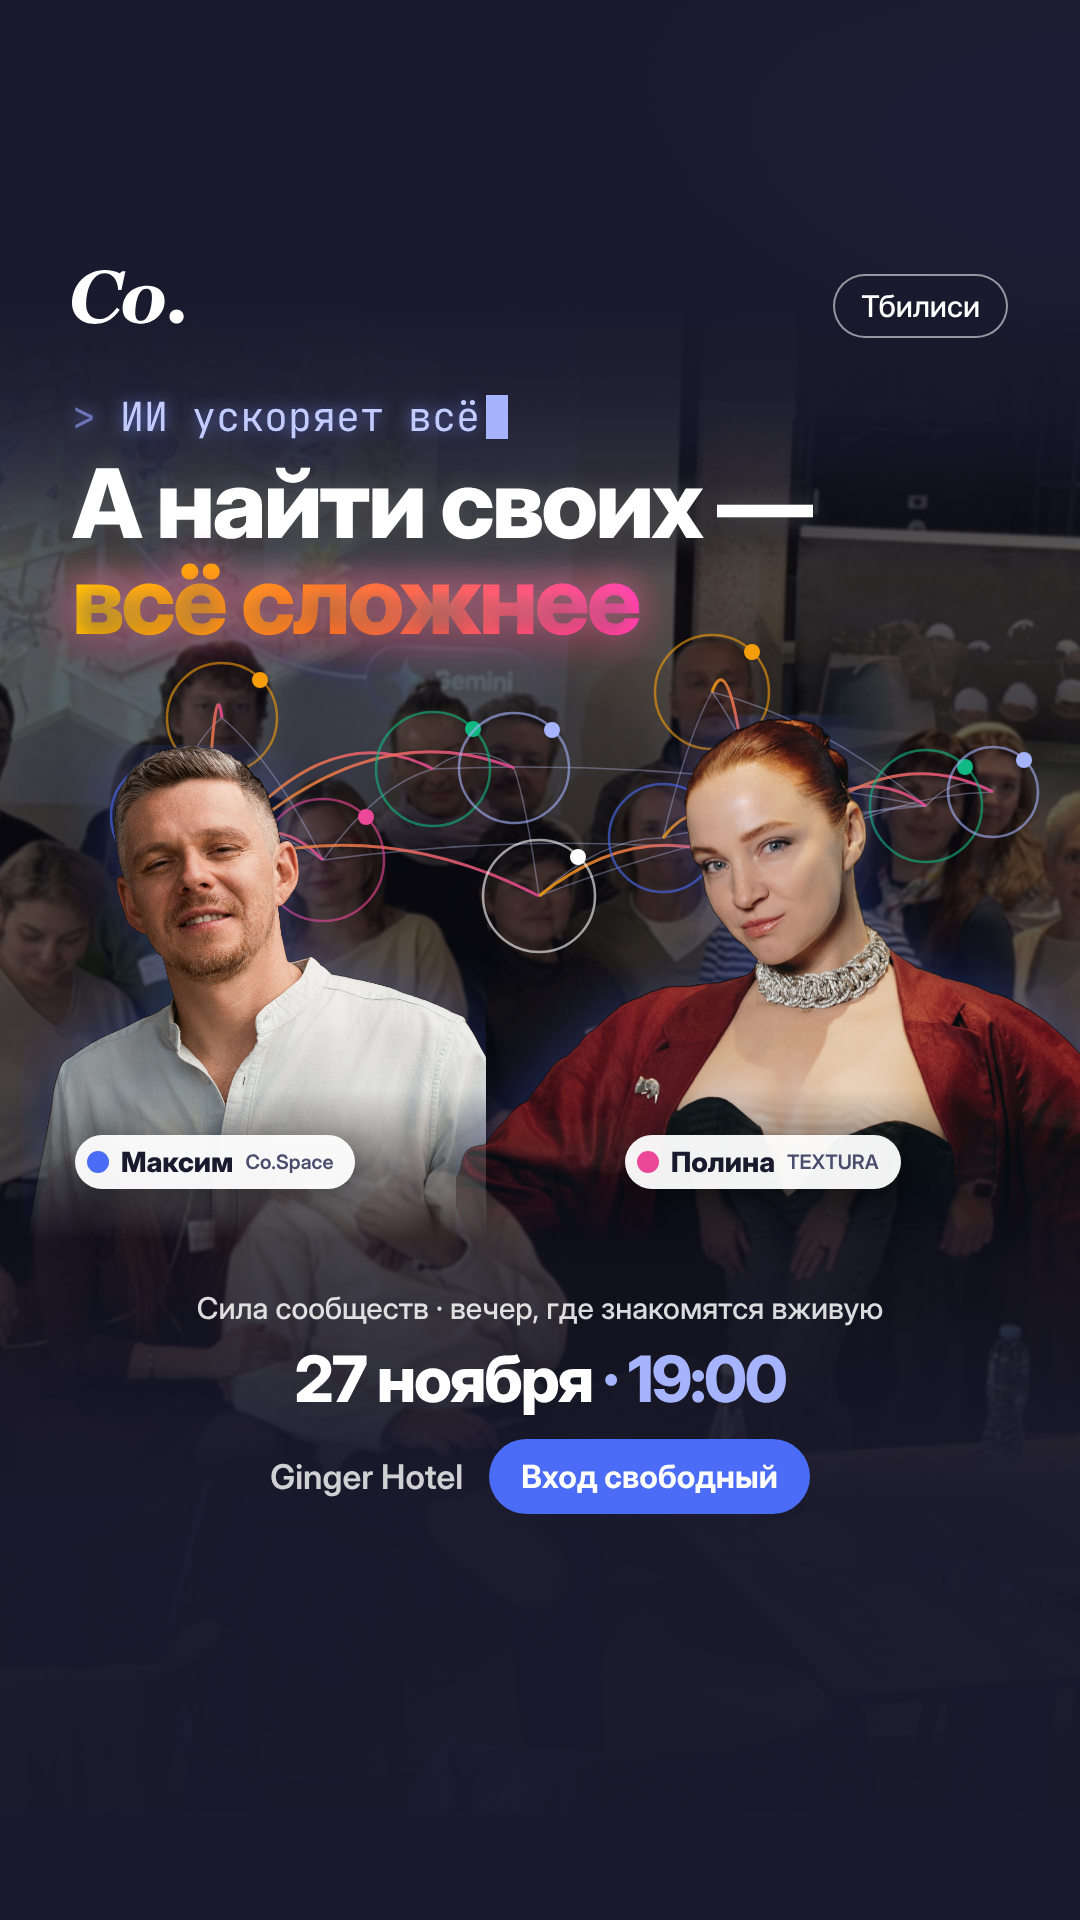
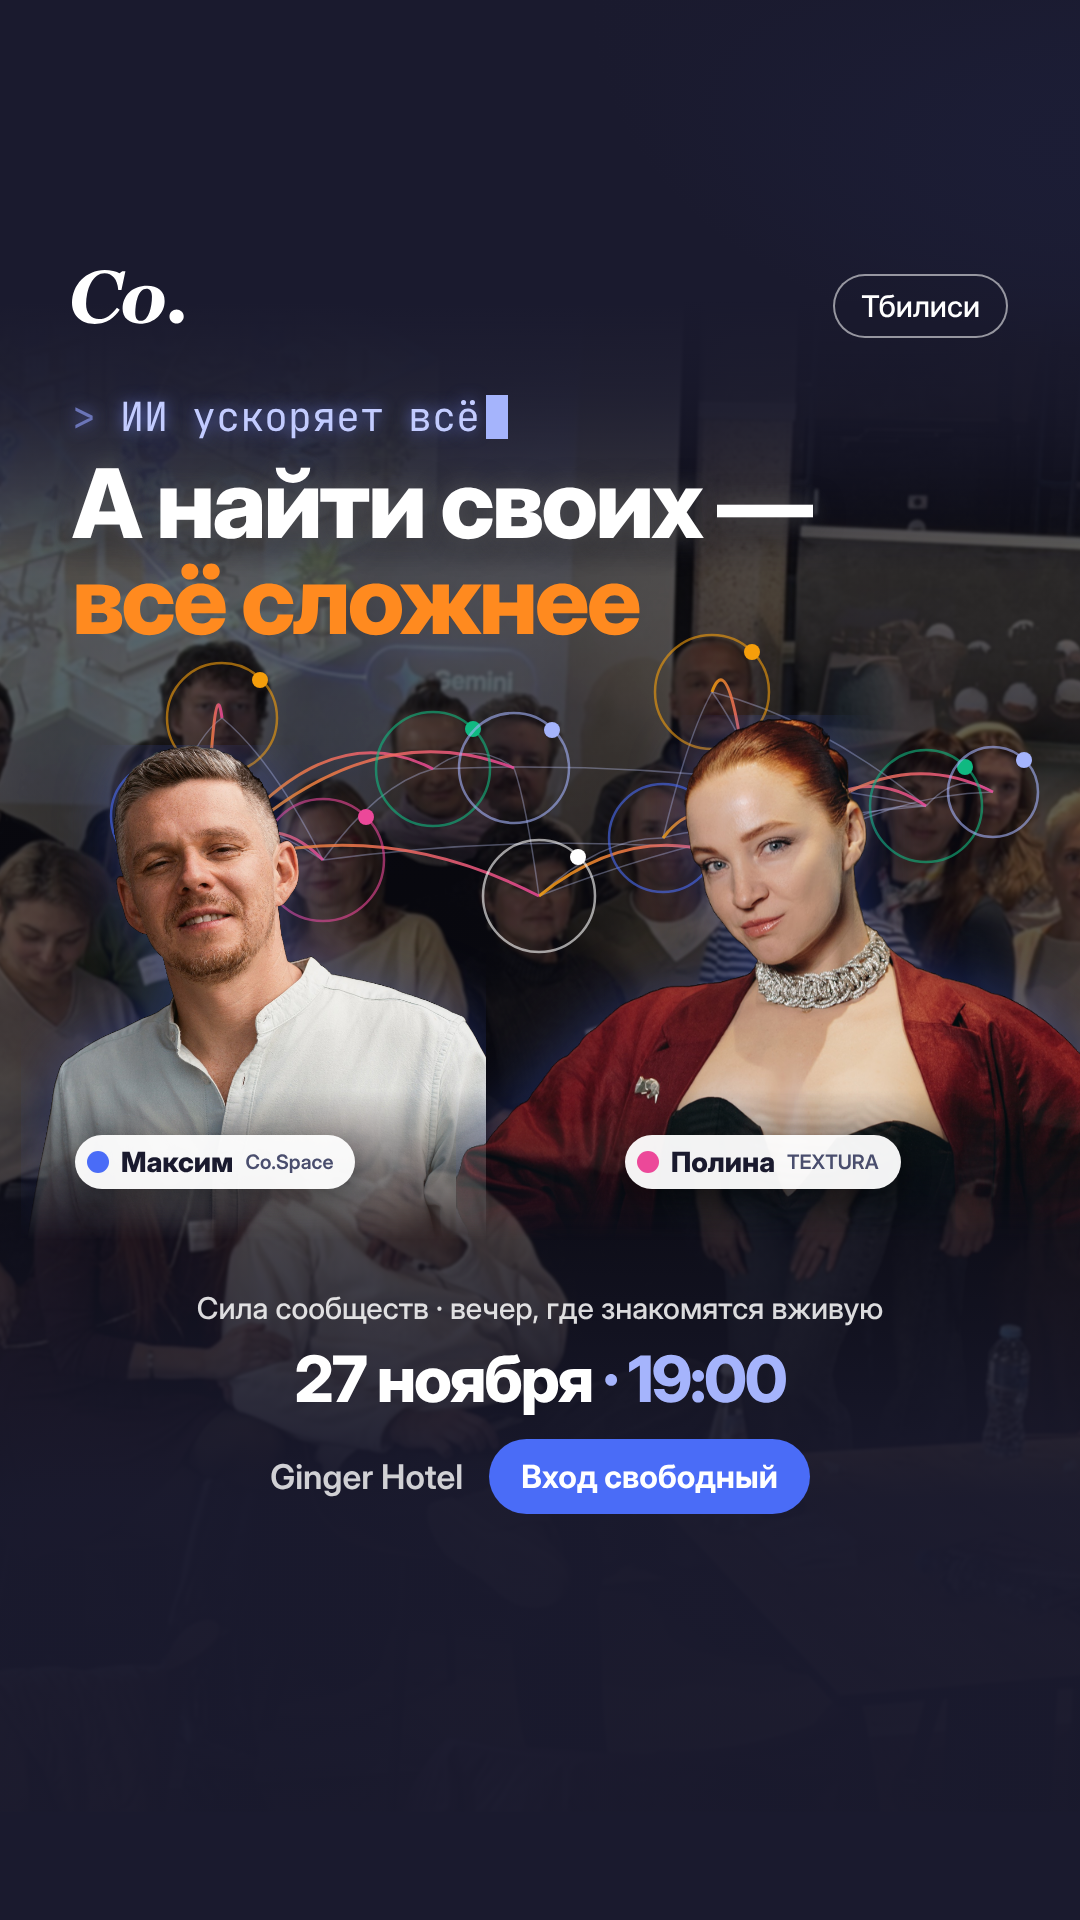
Заголовок: чистый яркий цвет без свечения

Changed region(s): [[0.0611, 0.2812, 0.6111, 0.3438]]

diff --git a/creatives/src/poster/poster3-4x5.html b/creatives/src/poster/poster3-4x5.html
@@ -16,7 +16,7 @@ svg.net{position:absolute;left:0;top:0}
 .mono s{text-decoration:none;color:#6B75B8}
 .mono b{display:inline-block;width:22px;height:44px;background:#A5B4FC;vertical-align:-8px;margin-left:6px}
 h1{position:absolute;left:72px;right:60px;top:228px;font-size:94px;line-height:1;font-weight:800;letter-spacing:-3px;color:#fff;text-shadow:0 0 24px rgba(255,255,255,.25),0 4px 30px rgba(0,0,0,.7)}
-h1 em{font-style:normal;background:linear-gradient(90deg,#FFC21A 0%,#FF7A2F 45%,#FF3EA5 100%);-webkit-background-clip:text;color:transparent;filter:drop-shadow(0 0 18px rgba(255,90,140,.55)) brightness(1.15) saturate(1.3)}
+h1 em{font-style:normal;color:#FF8A1F;text-shadow:none}
 .name{position:absolute;display:flex;align-items:center;gap:12px;background:rgba(255,255,255,.95);color:#1A1A2E;border-radius:40px;
  padding:10px 22px 10px 12px;font-size:28px;font-weight:800;box-shadow:0 10px 30px rgba(0,0,0,.4)}
 .name i{width:22px;height:22px;border-radius:50%;display:block}

diff --git a/creatives/src/poster/poster3-9x16.html b/creatives/src/poster/poster3-9x16.html
@@ -16,7 +16,7 @@ svg.net{position:absolute;left:0;top:0}
 .mono s{text-decoration:none;color:#6B75B8}
 .mono b{display:inline-block;width:22px;height:44px;background:#A5B4FC;vertical-align:-8px;margin-left:6px}
 h1{position:absolute;left:72px;right:60px;top:455px;font-size:96px;line-height:1;font-weight:800;letter-spacing:-3px;color:#fff;text-shadow:0 0 24px rgba(255,255,255,.25),0 4px 30px rgba(0,0,0,.7)}
-h1 em{font-style:normal;background:linear-gradient(90deg,#FFC21A 0%,#FF7A2F 45%,#FF3EA5 100%);-webkit-background-clip:text;color:transparent;filter:drop-shadow(0 0 18px rgba(255,90,140,.55)) brightness(1.15) saturate(1.3)}
+h1 em{font-style:normal;color:#FF8A1F;text-shadow:none}
 .name{position:absolute;display:flex;align-items:center;gap:12px;background:rgba(255,255,255,.95);color:#1A1A2E;border-radius:40px;
  padding:10px 22px 10px 12px;font-size:28px;font-weight:800;box-shadow:0 10px 30px rgba(0,0,0,.4)}
 .name i{width:22px;height:22px;border-radius:50%;display:block}

diff --git a/creatives/src/poster/build_poster3.py b/creatives/src/poster/build_poster3.py
@@ -39,7 +39,7 @@ svg.net{position:absolute;left:0;top:0}
 .mono s{text-decoration:none;color:#6B75B8}
 .mono b{display:inline-block;width:22px;height:44px;background:#A5B4FC;vertical-align:-8px;margin-left:6px}
 h1{position:absolute;left:72px;right:60px;top:%(h1)dpx;font-size:%(h1s)dpx;line-height:1;font-weight:800;letter-spacing:-3px;color:#fff;text-shadow:0 0 24px rgba(255,255,255,.25),0 4px 30px rgba(0,0,0,.7)}
-h1 em{font-style:normal;background:linear-gradient(90deg,#FFC21A 0%%,#FF7A2F 45%%,#FF3EA5 100%%);-webkit-background-clip:text;color:transparent;filter:drop-shadow(0 0 18px rgba(255,90,140,.55)) brightness(1.15) saturate(1.3)}
+h1 em{font-style:normal;color:#FF8A1F;text-shadow:none}
 .name{position:absolute;display:flex;align-items:center;gap:12px;background:rgba(255,255,255,.95);color:#1A1A2E;border-radius:40px;
  padding:10px 22px 10px 12px;font-size:28px;font-weight:800;box-shadow:0 10px 30px rgba(0,0,0,.4)}
 .name i{width:22px;height:22px;border-radius:50%%;display:block}
